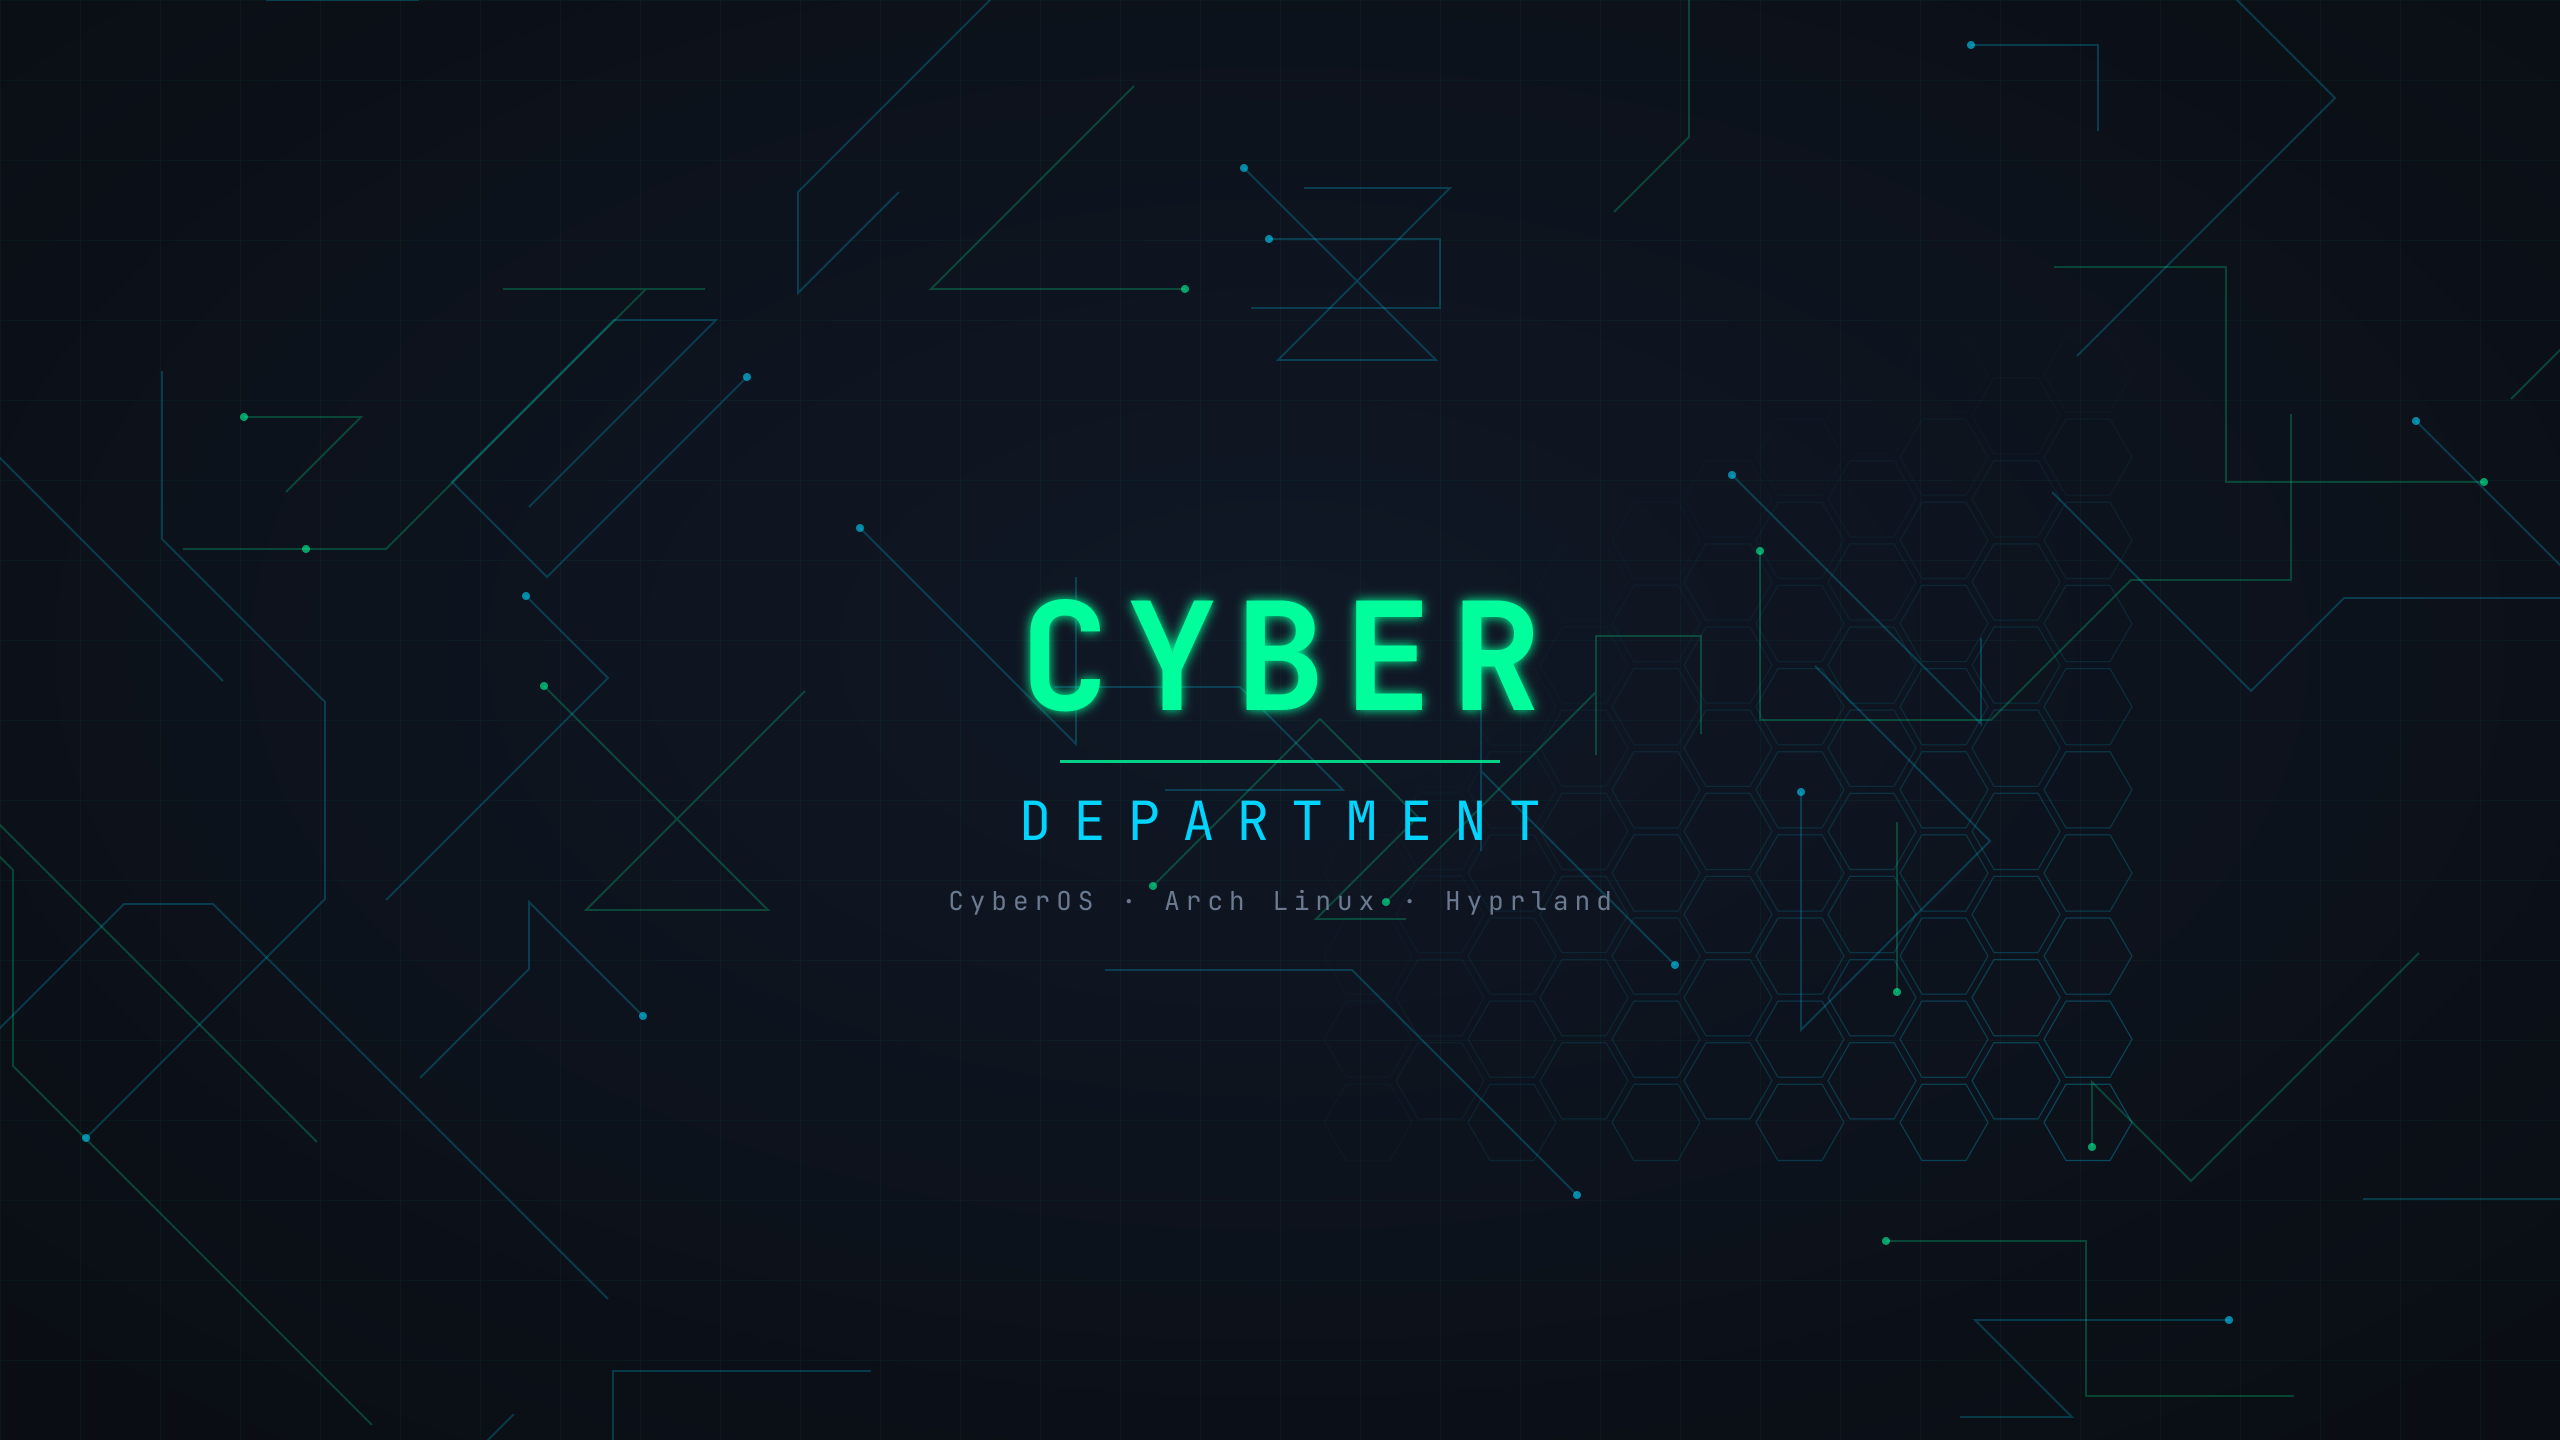
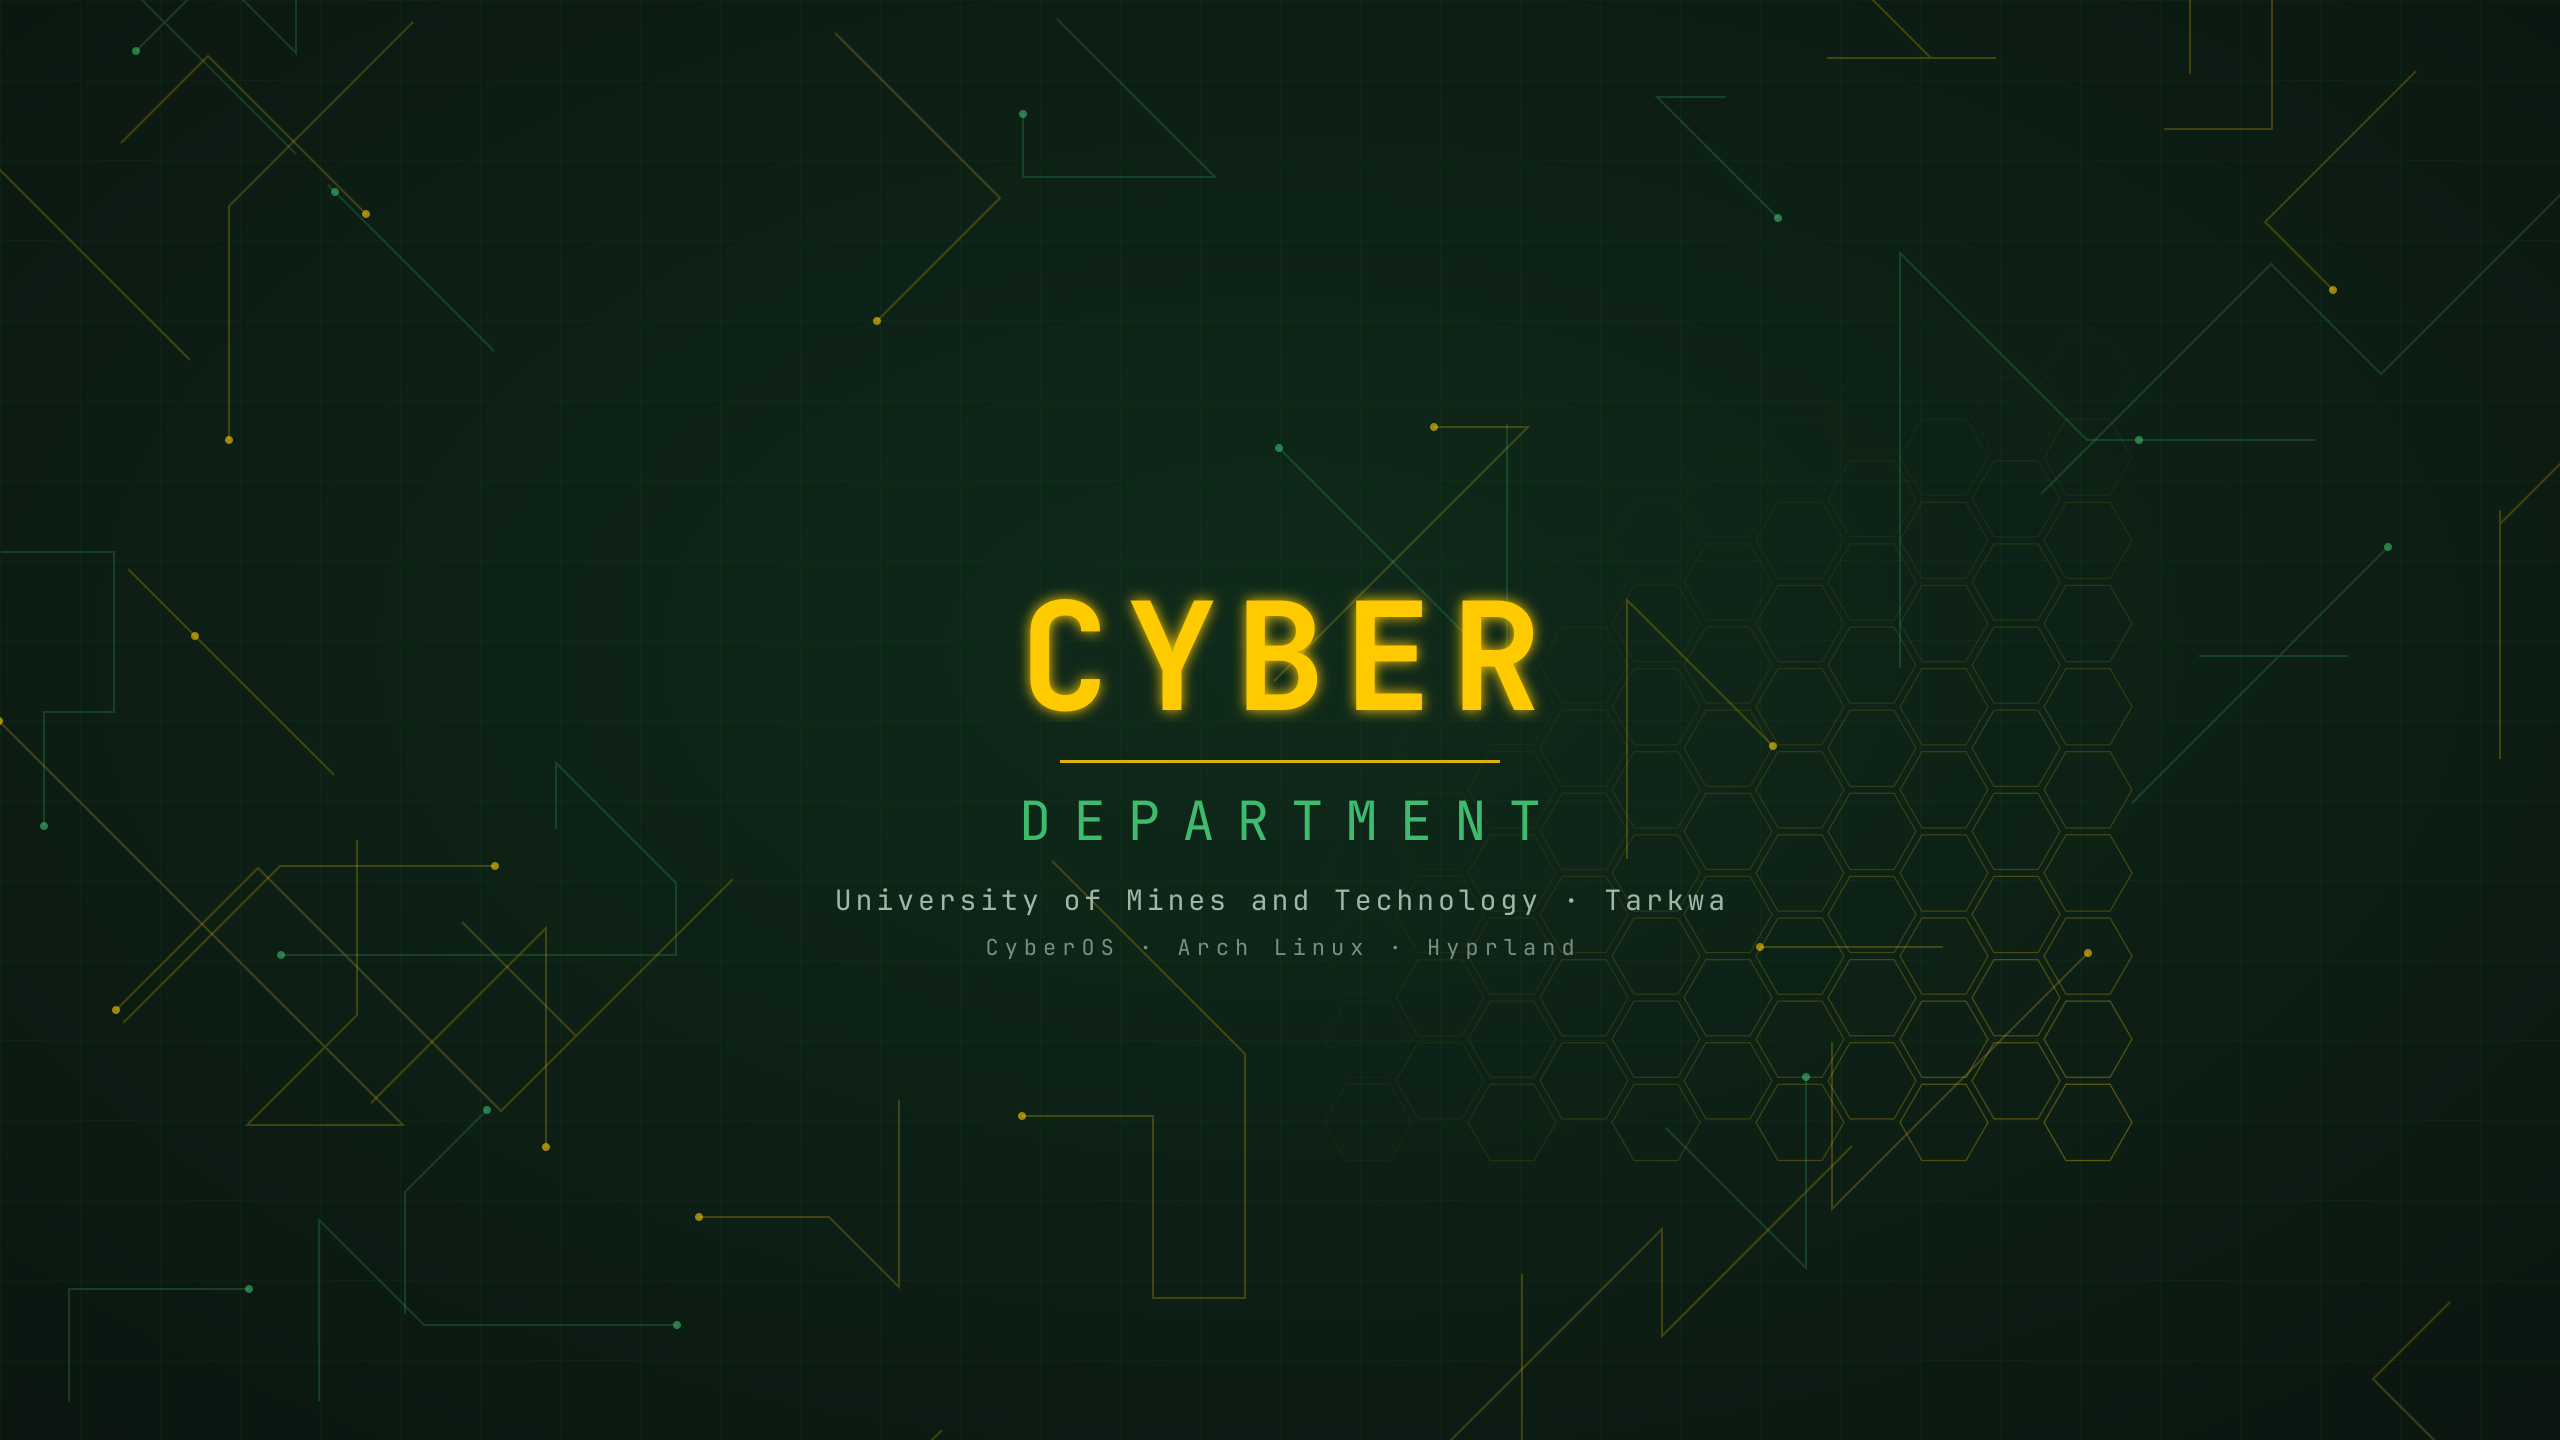
Theme: UMaT brand palette (green #004C23 / gold #FFCB06); add tmax + security toolset

diff --git a/profile/airootfs/etc/skel/.config/waybar/style.css b/profile/airootfs/etc/skel/.config/waybar/style.css
@@ -1,11 +1,12 @@
 /* Cyber Department theme */
-@define-color bg      #0A0E14;
-@define-color surface #11161F;
-@define-color fg      #E6EDF3;
-@define-color accent  #00FF9C;
-@define-color accent2 #00D4FF;
-@define-color alert   #FF2A6D;
-@define-color muted   #6B7A90;
+@define-color bg      #0B1610;
+@define-color brand   #004C23;
+@define-color surface #12241A;
+@define-color fg      #ECF1EE;
+@define-color accent  #FFCB06;
+@define-color accent2 #3DBB6E;
+@define-color alert   #C41118;
+@define-color muted   #7A8F82;
 
 * {
     font-family: "JetBrainsMono Nerd Font", monospace;
@@ -14,9 +15,10 @@
 }
 
 window#waybar {
-    background: alpha(@bg, 0.92);
+    background: alpha(@brand, 0.90);
     color: @fg;
     border-bottom: 2px solid @accent;
+    
 }
 
 #workspaces button {
@@ -39,6 +41,6 @@ window#waybar {
     border-radius: 6px;
 }
 #clock { color: @accent; font-weight: bold; }
-#battery.warning  { color: #F5D90A; }
+#battery.warning  { color: #FFB600; }
 #battery.critical { color: @alert; }
 #network.disconnected { color: @alert; }

diff --git a/profile/airootfs/etc/skel/.config/wofi/style.css b/profile/airootfs/etc/skel/.config/wofi/style.css
@@ -1,7 +1,7 @@
 * { font-family: "JetBrainsMono Nerd Font"; font-size: 14px; }
-window { background: rgba(10,14,20,0.95); border: 2px solid #00FF9C; border-radius: 8px; }
-#input { margin: 8px; padding: 8px; background: #11161F; color: #E6EDF3; border: 1px solid #1F2937; border-radius: 6px; }
+window { background: rgba(10,14,20,0.95); border: 2px solid #FFCB06; border-radius: 8px; }
+#input { margin: 8px; padding: 8px; background: #12241A; color: #ECF1EE; border: 1px solid #1E3A2A; border-radius: 6px; }
 #inner-box, #outer-box, #scroll { margin: 4px; background: transparent; }
-#entry { padding: 6px 10px; border-radius: 6px; color: #E6EDF3; }
-#entry:selected { background: #1F2937; color: #00FF9C; }
-#text:selected { color: #00FF9C; }
+#entry { padding: 6px 10px; border-radius: 6px; color: #ECF1EE; }
+#entry:selected { background: #1E3A2A; color: #FFCB06; }
+#text:selected { color: #FFCB06; }

diff --git a/README.md b/README.md
@@ -16,7 +16,7 @@ students boot the USB, try it, and run one command to install it to disk.
 | Virtualisation       | VirtualBox (+ dkms host modules), guest utils for VMs   |
 | Networking           | Cisco Packet Tracer (`packettracer`), Wireshark, nmap   |
 | Security lab         | metasploit, ghidra, radare2, burp-free alternatives (sqlmap, nikto, gobuster), john, hashcat, hydra, aircrack-ng, bettercap, impacket, masscan, binwalk, volatility3, sleuthkit, yara, clamav, lynis, docker |
-| Theme                | "Cyber Department" — `#0A0E14` base, `#00FF9C` / `#00D4FF` accents, custom wallpaper, Papirus icons, JetBrainsMono Nerd Font |
+| Theme                | "Cyber Department" on the **UMaT brand palette** (umat.edu.gh): green `#004C23`, gold `#FFCB06`, dark base `#0B1610`, accent green `#3DBB6E`; custom wallpaper, Papirus icons, JetBrainsMono Nerd Font |
 
 Live credentials: **student / student** (auto-login), root: **root**.
 
